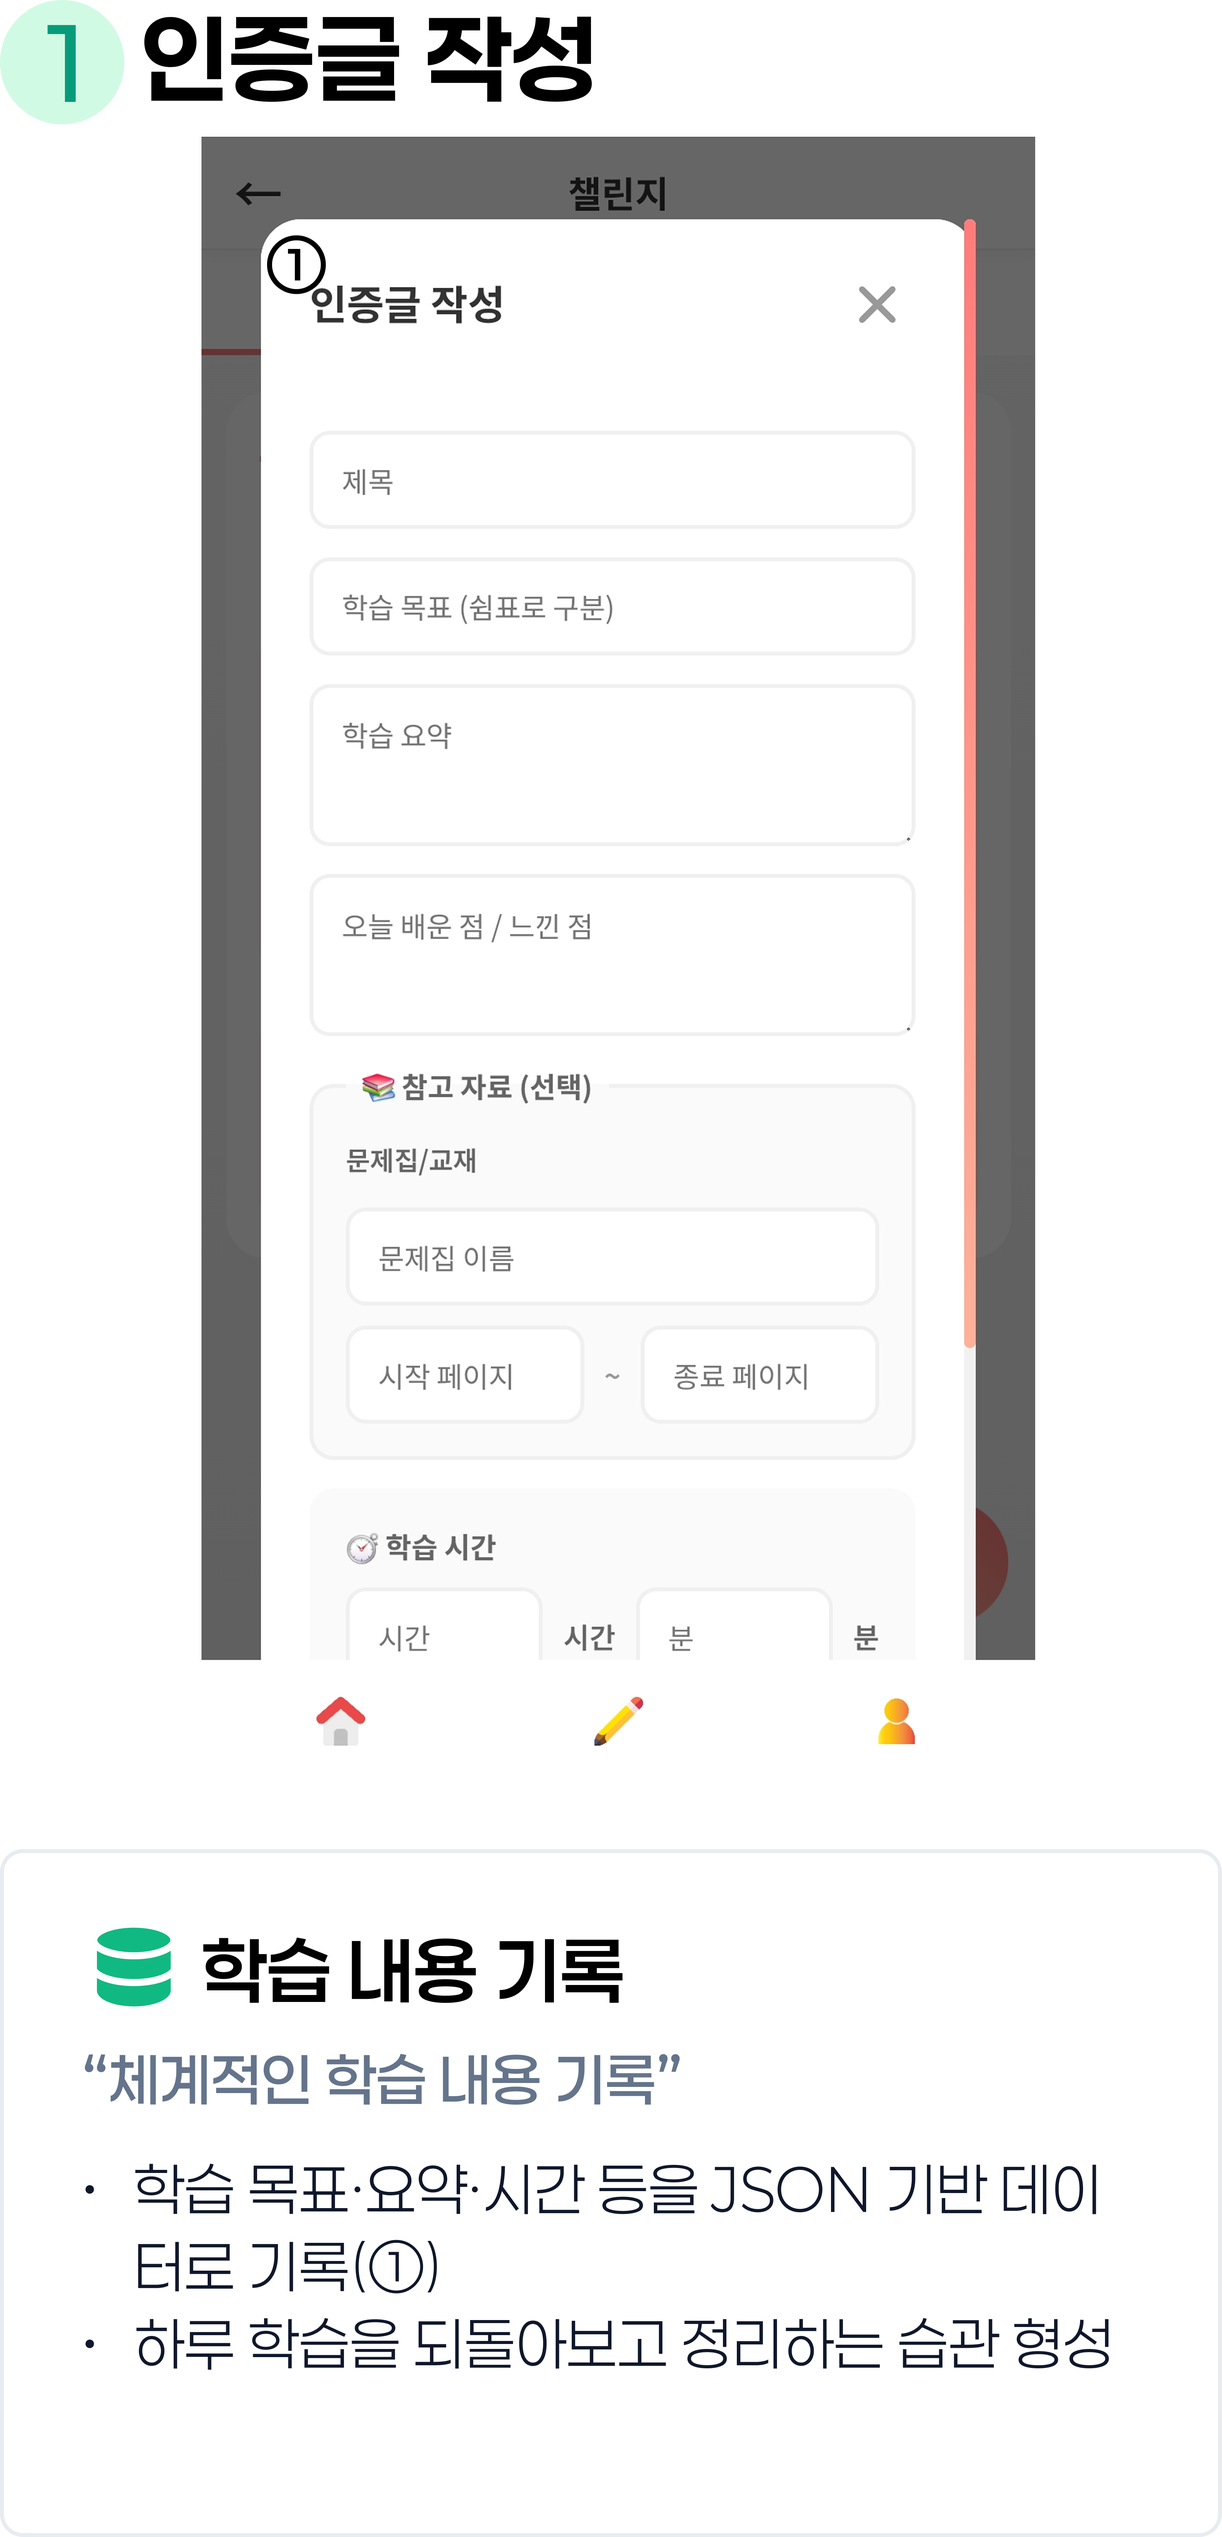
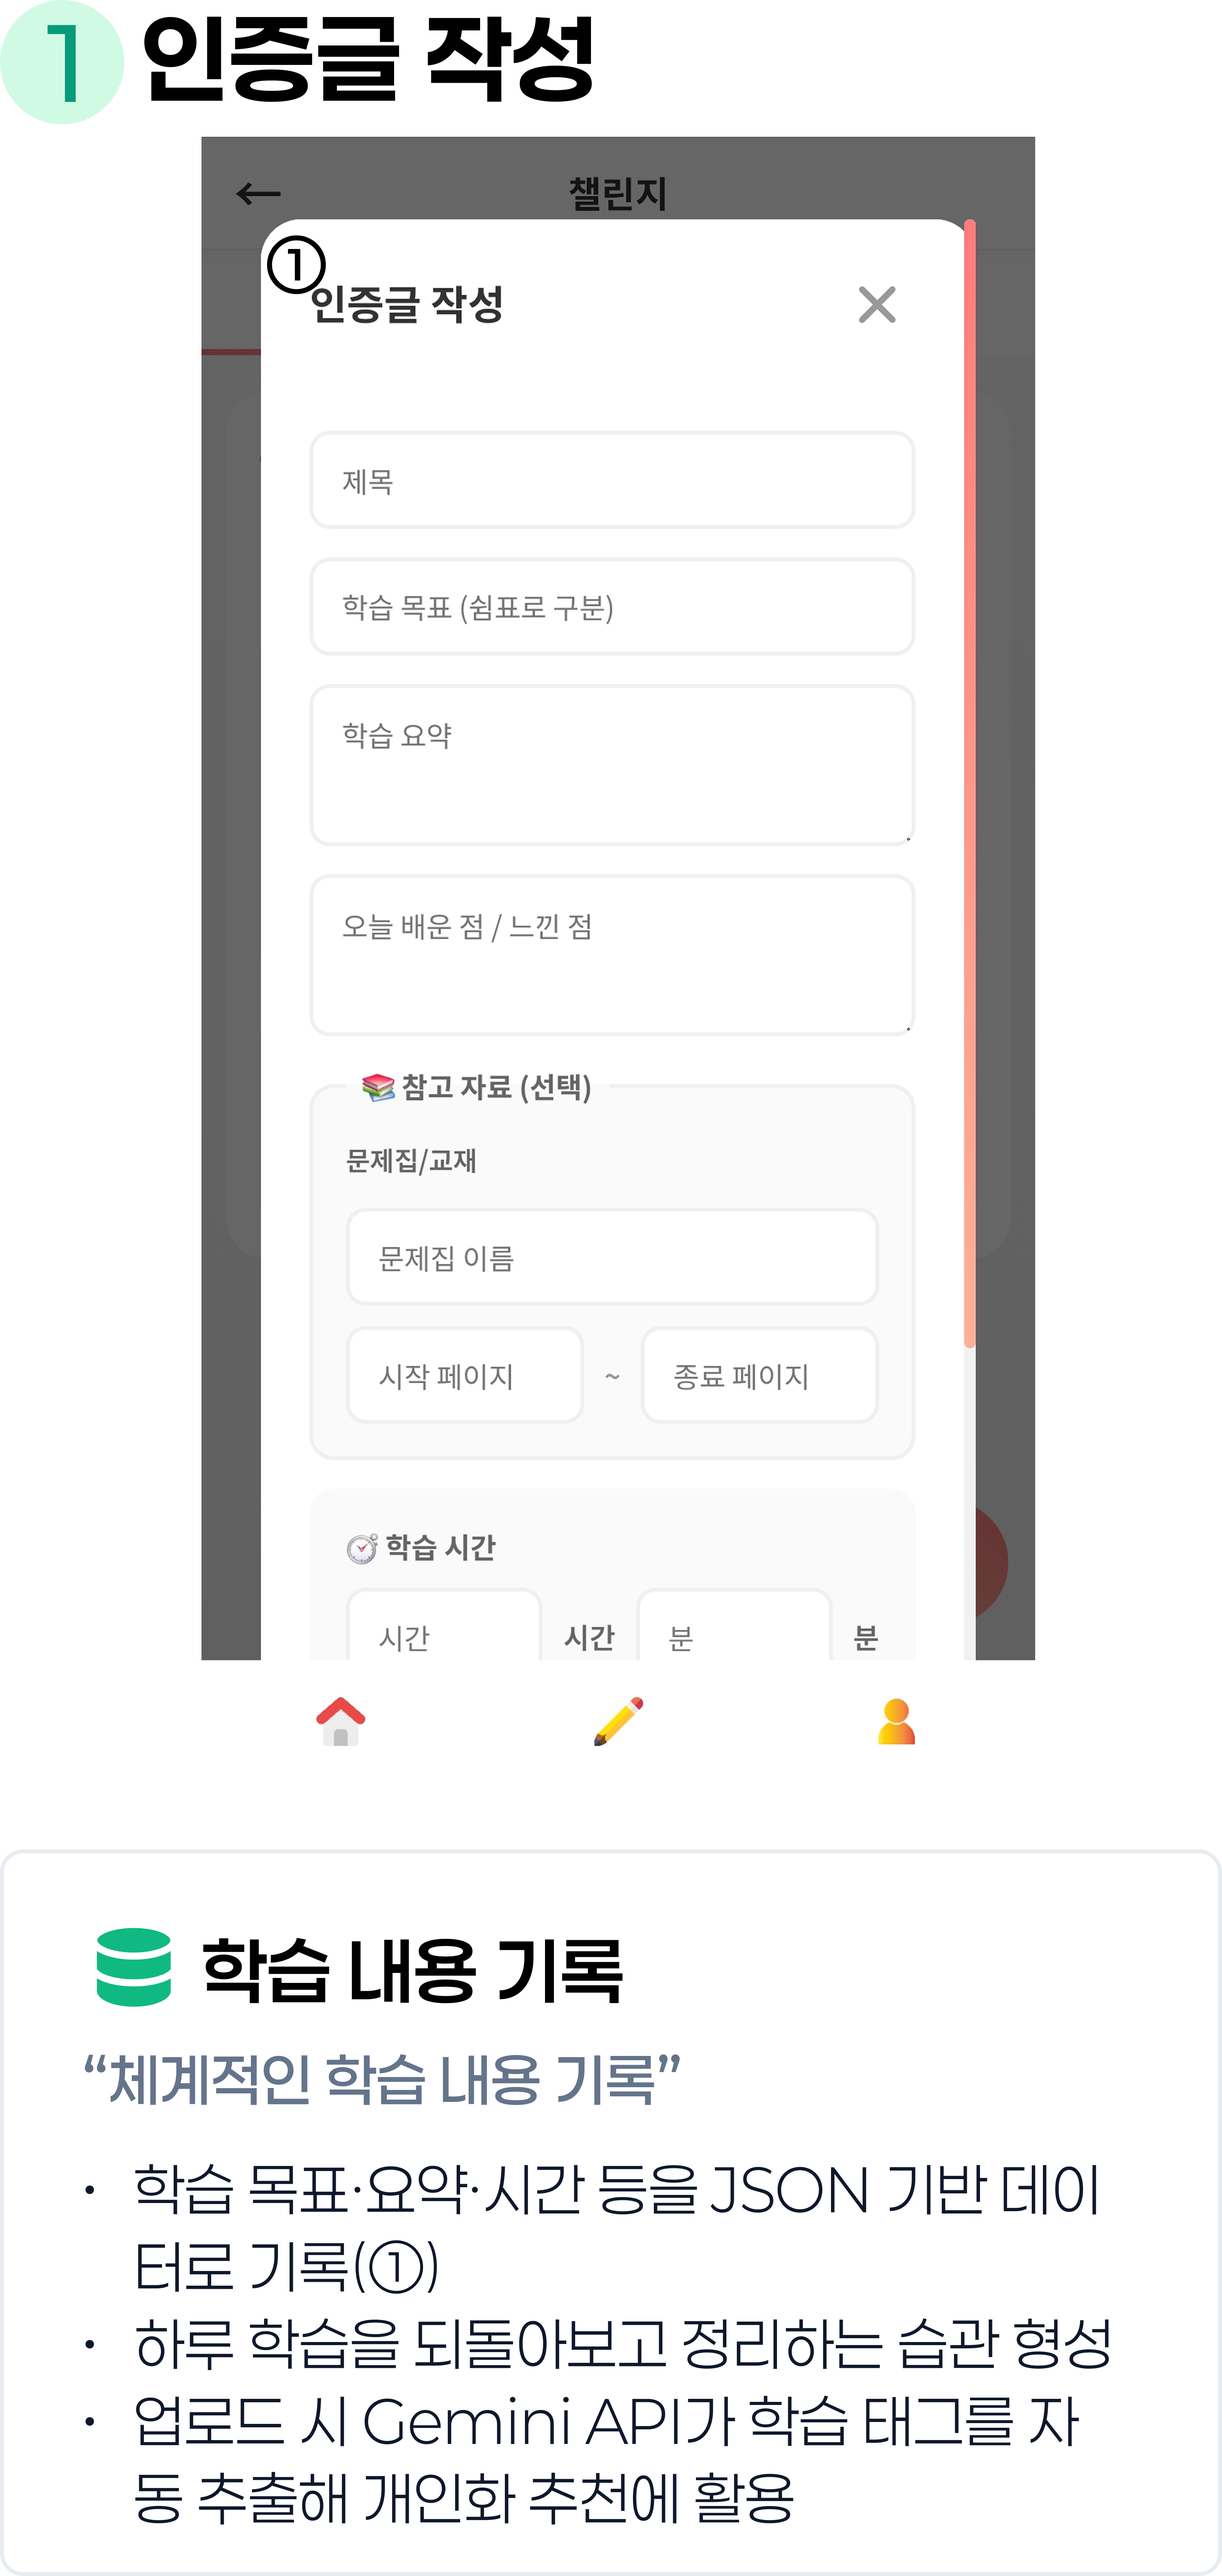
docs: 피드백으로 ppt 수정

diff --git a/docs/submission/PPT_docs/PPT_docs.md b/docs/submission/PPT_docs/PPT_docs.md
@@ -147,7 +147,9 @@
 
 ### 예상 슬라이드 내용
 
-<img src="../../images/Interface.png" width=700px>
+- 소제목 : JWT 기반 REST 아키텍처와 Gemini 연동 데이터 흐름
+
+<img src="../../images/Architecture.png" width=700px>
 
 ---
 
@@ -315,9 +317,12 @@
 
 ### 예상 슬라이드 내용
 
-- 학습 루틴 고착화: 막연하게 시간만 채우는 보여주기식 공부에서 벗어나서 구체적인 과제를 완수하고 인증하는 밀도 높은 학습 습관을 완성합니다.
-- 사회적 동기 부여: 친구들의 실시간 인증과 랭킹이 페이스메이커 역할을 하면서 혼자 공부할 때 겪는 고립감과 작심삼일의 마음을 극복하고 꾸준함을 유지하게 됩니다.
-- 자기 인식 향상: 직관적인 그래프와 캘린더로 자신의 학습 패턴을 객관적으로 파악하고 성취감을 높이며 부족한 점을 스스로 보완하는 자기주도력을 기릅니다.
+- 결과 중심 습관 고정
+  - 1일 1회 인증과 정형 기록으로 단순히 책상에 앉아있는 것이 아니라 매일 구체적인 학습 결과물을 만들어내는 목표 완료 학습 습관으로 전환
+- 안전한 연대·지속 동기
+  - Gemini API로 유해 표현을 차단하여 안전한 소통을 보장하고, 응원과 팔로워 기반 랭킹 시스템이 페이스메이커 역할을 하여 고립감을 줄이고 지속적인 동기 부여
+- 데이터 기반 자기 주도력 강화
+  - 잔디형 캘린더와 주간·전체·최근 30일 달성률 그래프로 학습 패턴을 파악하고, 인증 태그 기반 AI 추천 챌린지로 내 학습 태그와 맞는 과제를 계속 이어가며 자기 주도력을 강화
 
 ---
 
